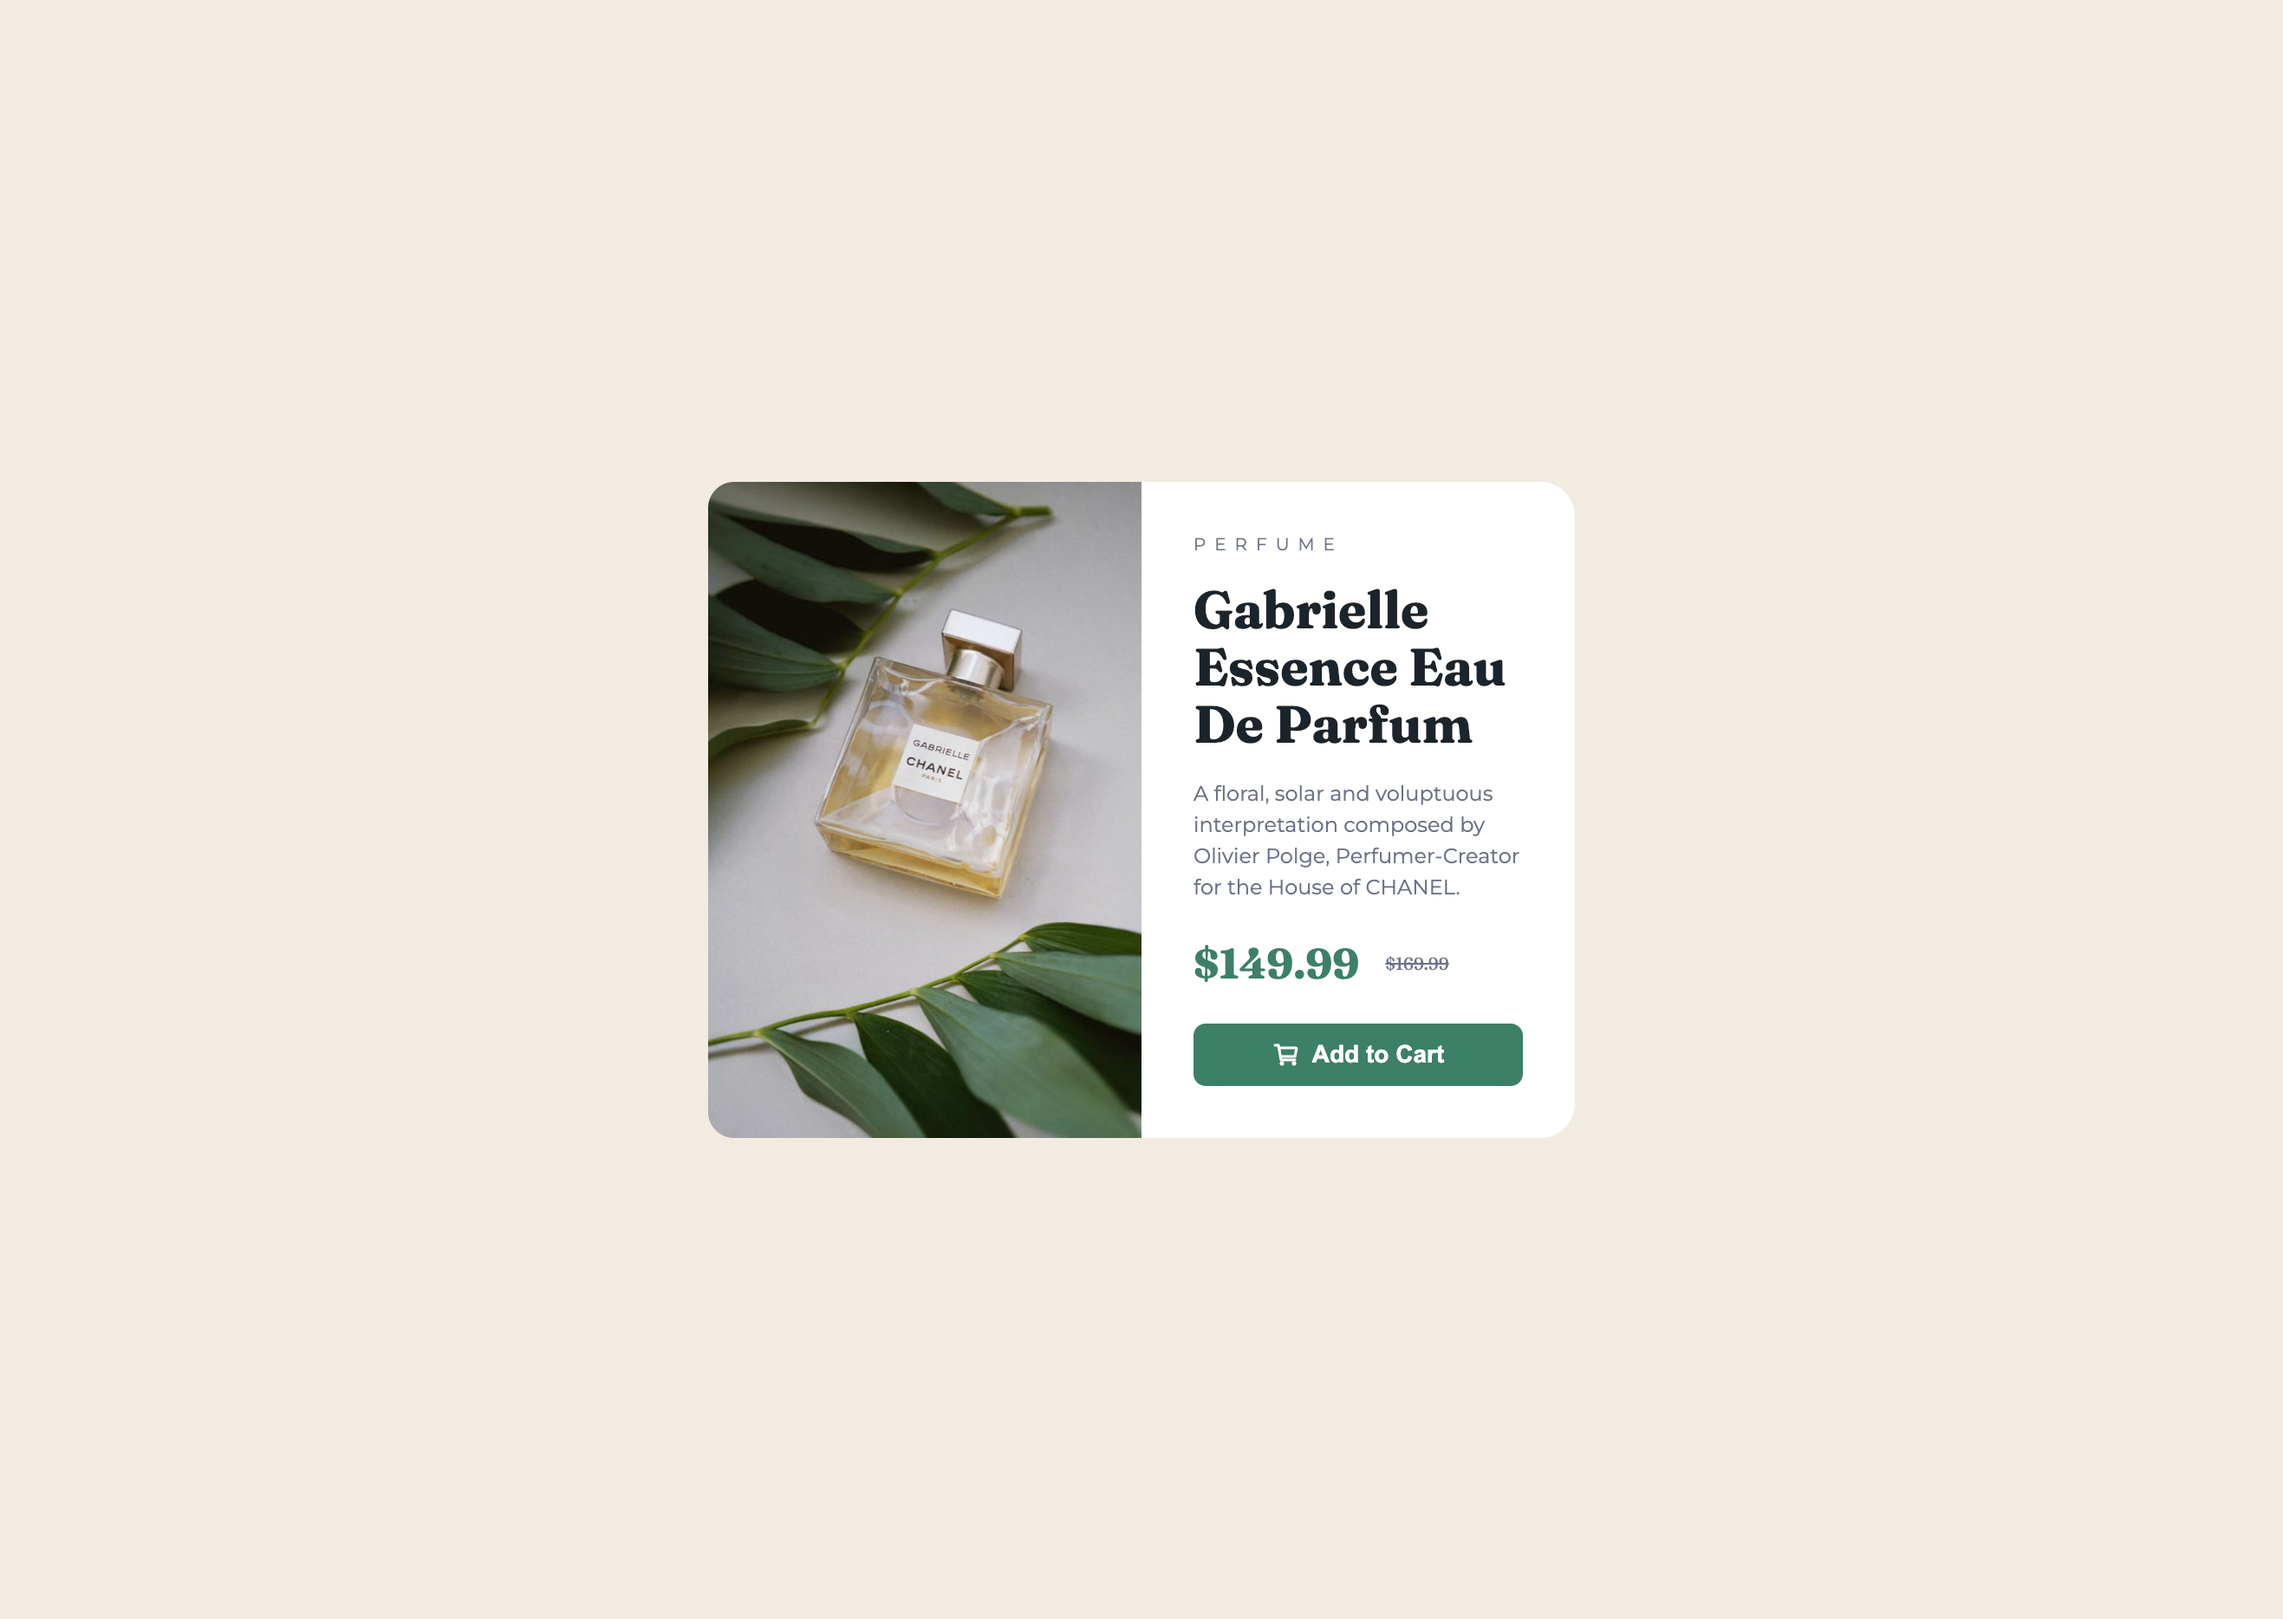
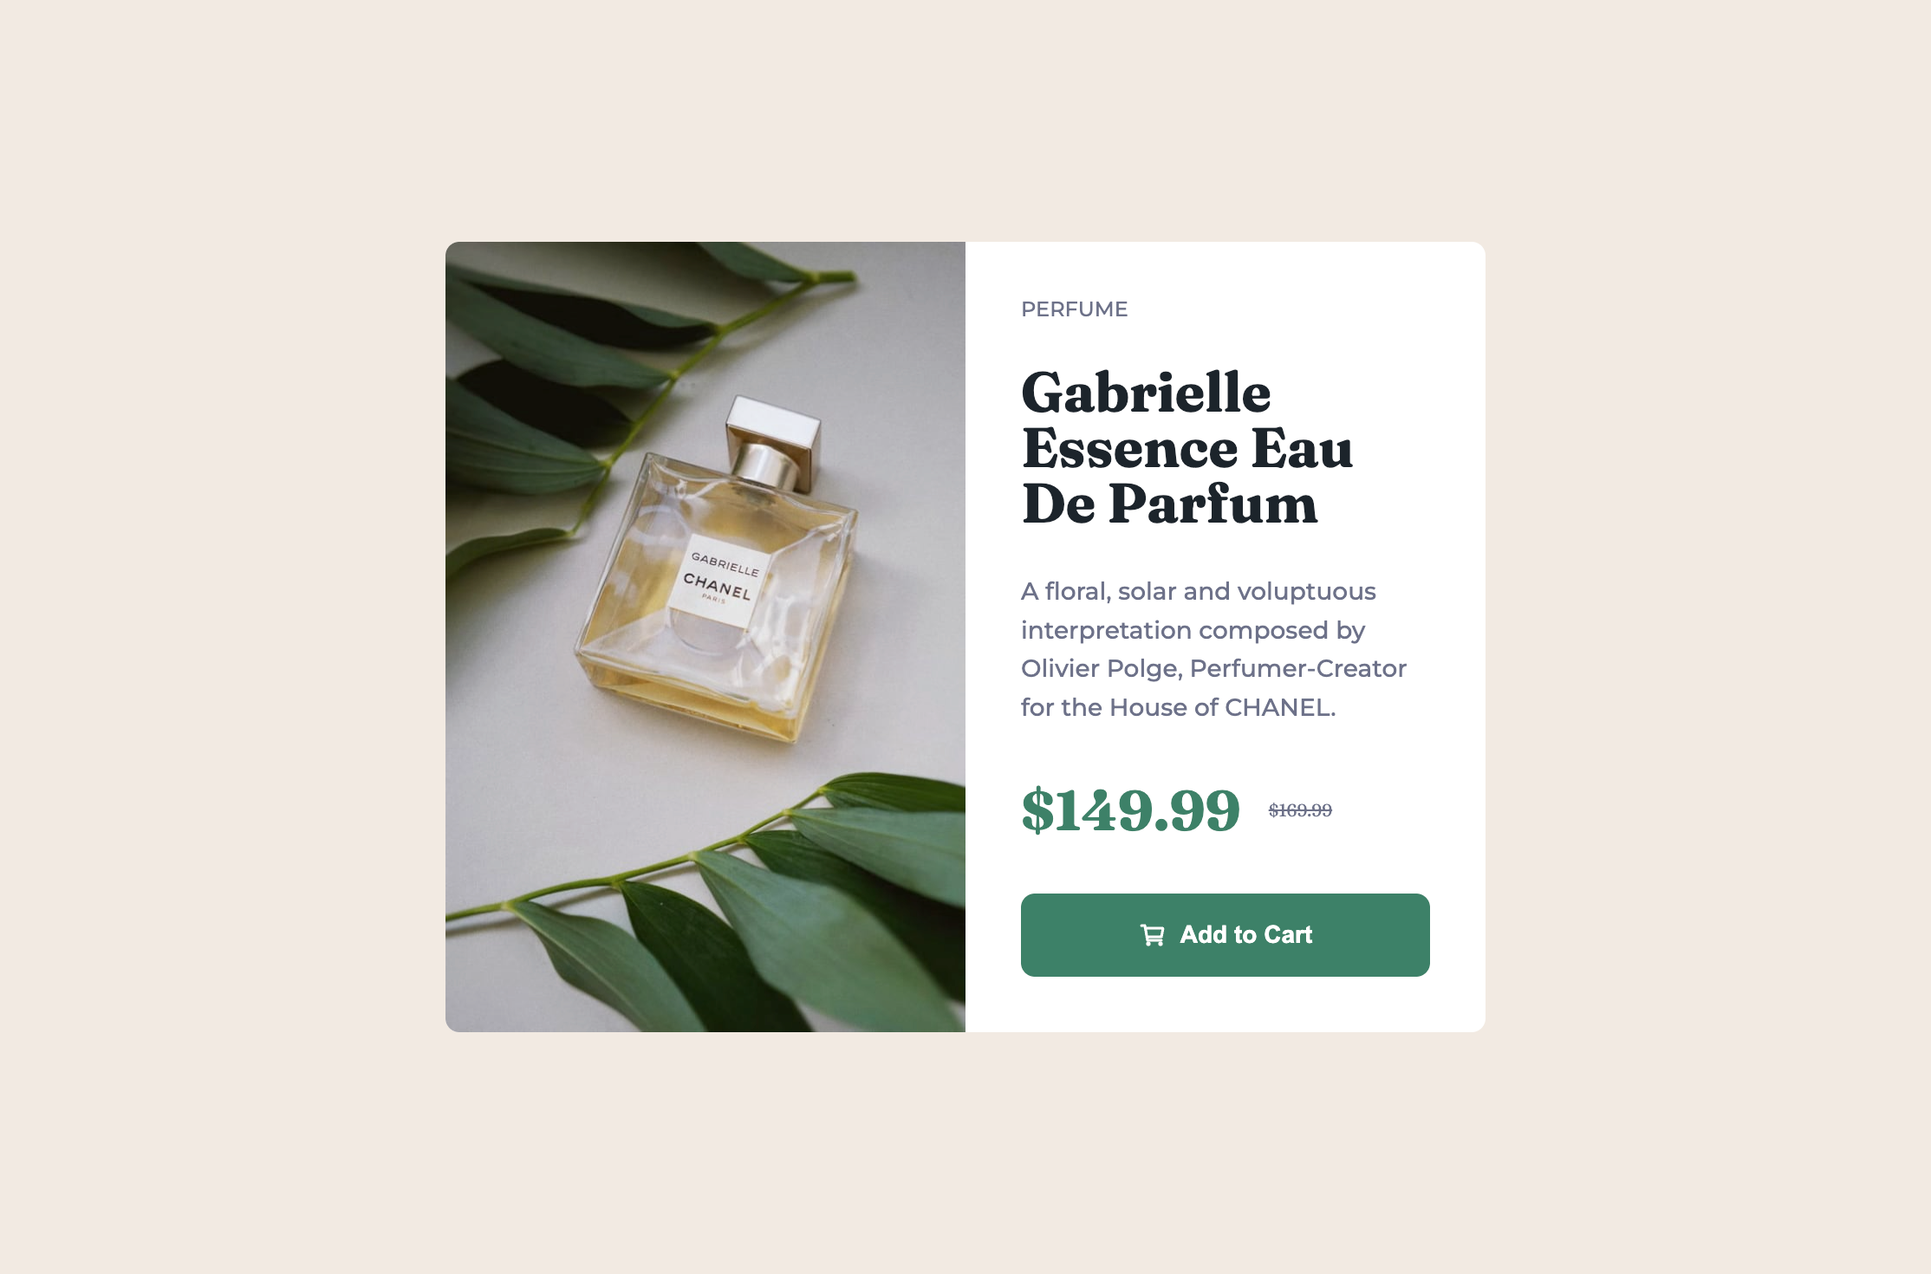
Updated V2.0

Changed region(s): [[0.2168, 0.1837, 0.7742, 0.8265]]

diff --git a/style.css b/style.css
@@ -1,10 +1,48 @@
 :root {
-  --green-500: hsl(158, 36%, 37%);
-  --green-700: hsl(158, 42%, 18%);
-  --black: hsl(212, 21%, 14%);
-  --grey: hsl(228, 12%, 48%);
-  --cream: hsl(30, 38%, 92%);
-  --white: hsl(0, 0%, 100%);
+  /* Colors */
+  --black: #1c232b;
+  --grey: #6c7289;
+  --cream: #f2eae2;
+  --white: #fff;
+  --green-500: #3d8168;
+  --green-700: #1a4032;
+
+  /* Typography - Font Family */
+  --font-family-montserrat: "Montserrat", sans-serif;
+  --font-family-fraunces: "Fraunces", serif;
+
+  /* Text Preset 1 */
+  --tp-1-size: 3.2rem;
+  --tp-1-weight: 700;
+  --tp-1-line-height: 1;
+
+  /* Text Preset 2 */
+  --tp-2-size: 1.4rem;
+  --tp-2-weight: 700;
+  --tp-2-line-height: 1.1;
+
+  /* Text Preset 3 */
+  --tp-3-size: 1.4rem;
+  --tp-3-weight: 500;
+  --tp-3-line-height: 1.6;
+
+  /* Text Preset 4 */
+  --tp-4-size: 1.2rem;
+  --tp-4-weight: 500;
+  --tp-4-line-height: 1.2;
+
+  /* Text Preset 5 */
+  --tp-5-size: 1.3rem;
+  --tp-5-weight: 500;
+  --tp-5-line-height: 1.2;
+
+  /* Spacing */
+  --spacing-500: 4rem;
+  --spacing-400: 3.2rem;
+  --spacing-300: 2.4rem;
+  --spacing-200: 1.6rem;
+  --spacing-100: 0.8rem;
+  --spacing-50: 0.4rem;
 }
 
 * {
@@ -21,7 +59,7 @@ html {
 }
 
 body {
-  font-family: "Montserrat", sans-serif;
+  font-family: var(--font-family-montserrat);
   background-color: var(--cream);
   min-height: 100vh;
 
@@ -32,61 +70,65 @@ body {
 
 .product-container {
   width: 100%;
-  max-width: 50rem;
+  max-width: 60rem;
   background-color: var(--white);
-  border-radius: 2rem;
+  border-radius: 0.8rem;
+  overflow: hidden;
+  display: flex;
+}
 
-  display: grid;
-  grid-template-columns: 1fr 1fr;
+.img-container {
+  width: 50%;
 }
 
 .product-img {
-  border-radius: 1.5rem 0 0 1.5rem;
   width: 100%;
   height: 100%;
-  object-fit: cover;
-  display: block;
 }
 
-.product-details {
-  padding: 3rem;
+.detail-container {
+  width: 50%;
+  padding: var(--spacing-400);
 }
 
 .product-tag {
   color: var(--grey);
-  letter-spacing: 0.5rem;
+  font-size: var(--tp-4-size);
+  font-weight: var(--tp-4-weight);
+  line-height: var(--tp-4-line-height);
   text-transform: uppercase;
   display: inline-block;
-  margin-bottom: 1.5rem;
 }
 
 .product-title {
   color: var(--black);
-  font-size: 3rem;
-  font-family: "Fraunces", serif;
-  line-height: 1.1;
-  margin-bottom: 1.5rem;
+  font-size: var(--tp-1-size);
+  font-weight: var(--tp-1-weight);
+  line-height: var(--tp-1-line-height);
+  font-family: var(--font-family-fraunces);
+  margin: var(--spacing-300) 0;
 }
 
 .product-info {
   color: var(--grey);
-  font-size: 1.2rem;
-  line-height: 1.5;
-  margin-bottom: 2rem;
+  font-size: var(--tp-3-size);
+  font-weight: var(--tp-3-weight);
+  line-height: var(--tp-3-line-height);
 }
 
 .product-prices {
-  font-family: "Fraunces", serif;
+  font-family: var(--font-family-fraunces);
+  margin: var(--spacing-400) 0;
   display: flex;
   align-items: center;
-  margin-bottom: 2rem;
 }
 
 .product-new-price {
   color: var(--green-500);
-  font-weight: 700;
-  font-size: 2.4rem;
-  margin-right: 1.5rem;
+  font-size: var(--tp-1-size);
+  font-weight: var(--tp-1-weight);
+  line-height: var(--tp-1-line-height);
+  margin-right: var(--spacing-200);
 }
 
 .product-old-price {
@@ -97,15 +139,16 @@ body {
 .product-btn {
   color: var(--white);
   background-color: var(--green-500);
-  font-size: 1.4rem;
-  font-weight: 700;
-  border-radius: 0.7rem;
-  border: none;
+  font-size: var(--tp-2-size);
+  font-weight: var(--tp-2-weight);
+  line-height: var(--tp-2-line-height);
   width: 100%;
-  padding: 1rem 3rem;
+  border-radius: 0.8rem;
+  border: none;
+  padding: var(--spacing-200) var(--spacing-400);
 
   display: flex;
-  gap: 0.7rem;
+  gap: 0.8rem;
   align-items: center;
   justify-content: center;
 }
@@ -128,14 +171,20 @@ ion-icon {
 /* BELOW 384px (Mobile) */
 /******************************************/
 @media (max-width: 24em) {
-  .product-container {
-    grid-template-columns: 1fr;
-    margin: 4.8rem 1.6rem;
+  body {
+    padding: var(--spacing-500) var(--spacing-200);
   }
 
-  .product-img {
-    border-radius: 1.5rem 1.5rem 0 0;
-    object-fit: cover;
-    display: block;
+  .product-container {
+    flex-direction: column;
+  }
+
+  .img-container,
+  .detail-container {
+    width: 100%;
+  }
+
+  .product-prices {
+    margin: var(--spacing-300) 0;
   }
 }

diff --git a/index.html b/index.html
@@ -34,7 +34,7 @@
             alt="Product Picture"
         /></picture>
       </header>
-      <section class="product-details">
+      <section class="detail-container">
         <span class="product-tag">Perfume</span>
         <h1 class="product-title">Gabrielle Essence Eau De Parfum</h1>
 

diff --git a/README.md b/README.md
@@ -2,31 +2,27 @@
 
 This is a Product Preview Card component that you can use on your websites.
 
-## Table of contents
+## Screenshots
 
-- [Screenshot](#screenshot)
-- [Links](#links)
-- [Built with](#built-with)
-- [Author](#author)
-
-## Screenshot
-
-- [Desktop Screenshot](desktop-screenshot.png)
-- [Mobile Screenshot](mobile-screenshot.png)
+- **Desktop:** ![Desktop Screenshot](desktop-screenshot.png)
+- **Tablet:** ![Tablet Screenshot](tablet-screenshot.png)
+- **Mobile:** ![Mobile Screenshot](mobile-screenshot.png)
 
 ## Links
 
-- Solution URL: [Product Preview Card Solution](https://github.com/altindaselif/product-preview-card-component-main)
-- Live Site URL: [Product Preview Card Live](https://altindaselif.github.io/product-preview-card-component-main/)
+- **GitHub Repository:** [View Code](https://github.com/altindaselif/product-preview-card-component-main)
+- **Live Demo:** [View Live Site](https://altindaselif.github.io/product-preview-card-component-main/)
 
-## Built with
+## Built With
 
-- Semantic HTML5 markup
-- CSS custom properties
-- Flexbox
-- Grid
-- Responsive site
+- **Semantic HTML5** – meaningful markup for accessibility
+- **CSS Custom Properties** – easier theming and maintenance
+- **Flexbox** – flexible layout alignment
+- **CSS Grid** – for responsive layouts
+- **Responsive Design** – adapts to different screen sizes
+- **Desktop-First Workflow** – desktop-first, then adapted to smaller devices
 
 ## Author
 
-- Linkedin - [Elif Altındaş](https://www.linkedin.com/in/elifaltindas/)
+- **LinkedIn:** [Elif Altındaş](https://www.linkedin.com/in/elifaltindas/)
+- **Frontend Mentor:** [@altindaselif](https://www.frontendmentor.io/profile/altindaselif)
